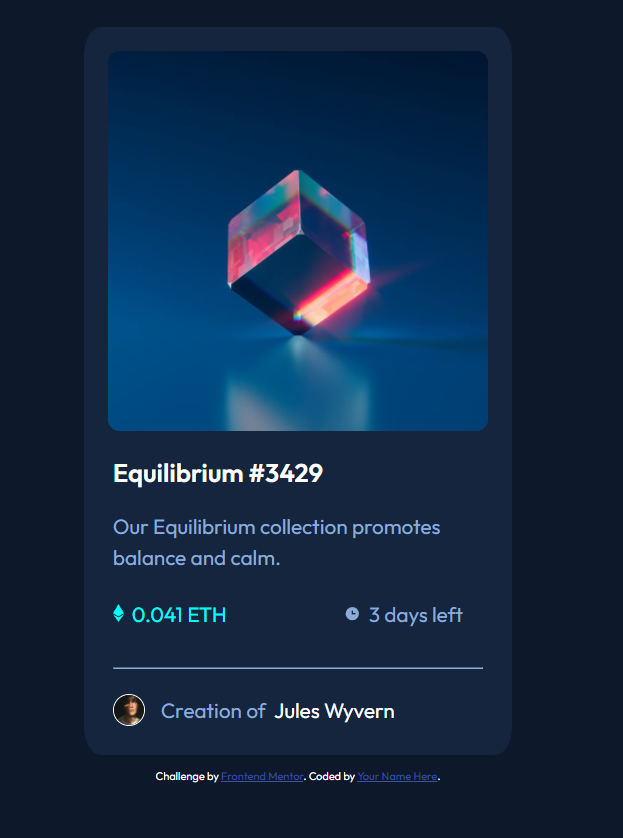
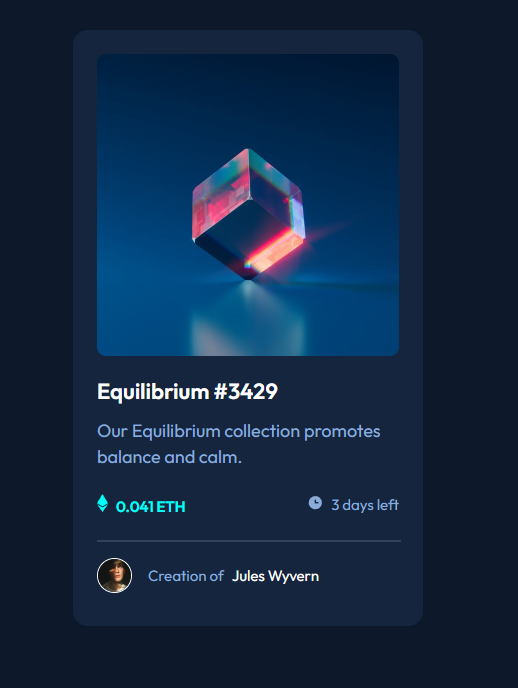
made slight changes after getting access to figma design file

diff --git a/index.html b/index.html
@@ -11,7 +11,10 @@
       sizes="32x32"
       href="./images/favicon-32x32.png"
     />
-    <link rel="stylesheet" href="https://cdnjs.cloudflare.com/ajax/libs/font-awesome/4.7.0/css/font-awesome.min.css">
+    <link
+      rel="stylesheet"
+      href="https://cdnjs.cloudflare.com/ajax/libs/font-awesome/4.7.0/css/font-awesome.min.css"
+    />
     <link rel="preconnect" href="https://fonts.googleapis.com" />
     <link rel="preconnect" href="https://fonts.gstatic.com" crossorigin />
     <link
@@ -24,38 +27,56 @@
   </head>
   <body>
     <main class="main">
-      <div class="cardImg"><img id="nftImg" src="images/image-equilibrium.jpg" alt="" />
-        <div class="overlay">
-          
-          </div>
-        <a href="#" id="icon" >
-          <svg xmlns="http://www.w3.org/2000/svg" xmlns:xlink="http://www.w3.org/1999/xlink" version="1.1" width="60" height="60" fill="#FFFFFF" viewBox="0 0 24 24"><path d="M12,9A3,3 0 0,0 9,12A3,3 0 0,0 12,15A3,3 0 0,0 15,12A3,3 0 0,0 12,9M12,17A5,5 0 0,1 7,12A5,5 0 0,1 12,7A5,5 0 0,1 17,12A5,5 0 0,1 12,17M12,4.5C7,4.5 2.73,7.61 1,12C2.73,16.39 7,19.5 12,19.5C17,19.5 21.27,16.39 23,12C21.27,7.61 17,4.5 12,4.5Z" /></svg></a></div>
-      
-      
+      <div class="cardImg">
+        <img id="nftImg" src="images/image-equilibrium.jpg" alt="" />
+        <div class="overlay"></div>
+        <svg
+          id="icon"
+          xmlns="http://www.w3.org/2000/svg"
+          xmlns:xlink="http://www.w3.org/1999/xlink"
+          version="1.1"
+          width="60"
+          height="60"
+          fill="#FFFFFF"
+          viewBox="0 0 24 24"
+        >
+          <path
+            d="M12,9A3,3 0 0,0 9,12A3,3 0 0,0 12,15A3,3 0 0,0 15,12A3,3 0 0,0 12,9M12,17A5,5 0 0,1 7,12A5,5 0 0,1 12,7A5,5 0 0,1 17,12A5,5 0 0,1 12,17M12,4.5C7,4.5 2.73,7.61 1,12C2.73,16.39 7,19.5 12,19.5C17,19.5 21.27,16.39 23,12C21.27,7.61 17,4.5 12,4.5Z"
+          />
+        </svg>
+      </div>
 
       <div class="cardText">
         <h1>Equilibrium #3429</h1>
 
         <p>Our Equilibrium collection promotes balance and calm.</p>
-        <p class="spans"><span id="price">
-          <svg width="11" height="18" xmlns="http://www.w3.org/2000/svg"><path d="M11 10.216 5.5 18 0 10.216l5.5 3.263 5.5-3.262ZM5.5 0l5.496 9.169L5.5 12.43 0 9.17 5.5 0Z" fill="#00FFF8"/></svg> 0.041 ETH</span
-        >
-        <span id="days-left">
-          <svg width="17" height="17" xmlns="http://www.w3.org/2000/svg"><path d="M8.305 2.007a6.667 6.667 0 1 0 0 13.334 6.667 6.667 0 0 0 0-13.334Zm2.667 7.334H8.305a.667.667 0 0 1-.667-.667V6.007a.667.667 0 0 1 1.334 0v2h2a.667.667 0 0 1 0 1.334Z" fill="#8BACD9"/></svg>3 days left</span
-        ></p>
-        
+        <p class="spans">
+          <span id="price">
+            <svg width="11" height="18" xmlns="http://www.w3.org/2000/svg">
+              <path
+                d="M11 10.216 5.5 18 0 10.216l5.5 3.263 5.5-3.262ZM5.5 0l5.496 9.169L5.5 12.43 0 9.17 5.5 0Z"
+                fill="#00FFF8"
+              />
+            </svg>
+            0.041 ETH</span
+          >
+          <span id="days-left">
+            <svg width="16" height="16" xmlns="http://www.w3.org/2000/svg">
+              <path
+                d="M8.305 2.007a6.667 6.667 0 1 0 0 13.334 6.667 6.667 0 0 0 0-13.334Zm2.667 7.334H8.305a.667.667 0 0 1-.667-.667V6.007a.667.667 0 0 1 1.334 0v2h2a.667.667 0 0 1 0 1.334Z"
+                fill="#8BACD9"
+              /></svg
+            >3 days left</span
+          >
+        </p>
 
         <hr />
 
-        <p id="authorInfo"><img id="avatar" src="images/image-avatar.png" alt=""> Creation of <span> Jules Wyvern</span></p>
+        <p id="authorInfo">
+          <img id="avatar" src="images/image-avatar.png" alt="" /> Creation of
+          <span> Jules Wyvern</span>
+        </p>
       </div>
     </main>
-<footer><div class="attribution">
-  Challenge by
-  <a href="https://www.frontendmentor.io?ref=challenge" target="_blank"
-    >Frontend Mentor</a
-  >. Coded by <a href="#">Your Name Here</a>.
-</div></footer>
-    
   </body>
 </html>

diff --git a/css/style.css b/css/style.css
@@ -1,47 +1,72 @@
 body {
   background-color: hsl(217, 54%, 11%);
   font-family: "Outfit", sans-serif;
-  display: flex;
-  flex-direction: column;
 }
 
 .main {
   background-color: hsl(216, 50%, 16%);
-  border-radius: 4%;
+  border-radius: 15px;
   text-align: left;
+  width: 327px;
+  height: 543px;
 }
 
 .cardImg {
   padding: 1.5rem;
-  padding-bottom: 0;
+  padding-bottom: 8px;
   display: flex;
   justify-content: center;
-  
+  position: relative;
+}
+
+#nftImg, .overlay{
+  width: 278px;
 }
 #nftImg {
   border-radius: 3%;
-  width: 380px;
   background-color: hsl(215, 51%, 70%);
- 
-  
 }
-.cardText > * {
-  margin: 0.8rem;
+
+.overlay {
+  position: absolute;
+  height: 278px;
+  background-color: hsl(178, 100%, 50%);
+  display: flex;
+  align-items: center;
+  justify-content: center;
+  opacity: 0;
 }
+
+.overlay:hover {
+  opacity: 0.4;
+}
+
+#icon {
+  position: absolute;
+  top: 130px;
+  z-index: -1;
+  width: 48px;
+}
+.overlay:hover + #icon {
+  z-index: 2;
+}
+
 .cardText {
-  padding: 1rem;
+  padding: 24px;
   display: flex;
   flex-direction: column;
 }
 .cardText p {
-  font-size: 1.3rem;
+  font-size: 18px;
   max-width: 350px;
-  line-height: 1.5;
+  line-height: 26px;
+  padding-bottom: 16px;
 }
 h1 {
   color: hsl(0, 0%, 100%);
   font-weight: 600;
-  font-size: 1.6rem;
+  font-size: 22px;
+  padding-bottom: 12px;
 }
 
 p {
@@ -51,31 +76,41 @@ p {
 .spans {
   display: flex;
   justify-content: space-between;
-  margin-bottom: 1.5rem;
+}
+#price,
+#days-left {
+  display: flex;
+  align-items: baseline;
+  font-size: 15px;
+  line-height: 19px;
 }
 #price {
   color: hsl(178, 100%, 50%);
-  display: flex;
-  align-items: baseline;
+  font-weight: 600;
 }
 
 #days-left {
   color: hsl(215, 51%, 70%);
   margin-left: auto;
-  display: flex;
-  align-items: baseline;
+  font-weight: 400;
 }
 svg {
   padding-right: 0.5rem;
 }
 
 hr {
-  border-color: hsl(215, 51%, 70%);
+  border: solid 1px hsl(215, 32%, 27%);
+  width: 278px;
+  margin: 0;
 }
 
 #authorInfo {
   display: flex;
   align-items: center;
+  padding-top: 16px;
+  padding-bottom: 24px;
+  font-size: 15px;
+  line-height: 19px;
 }
 
 #authorInfo span {
@@ -83,56 +118,45 @@ hr {
   color: hsl(0, 0%, 100%);
 }
 #avatar {
-  width: 30px;
+  width: 33px;
   border: hsl(0, 0%, 100%) solid 1px;
   border-radius: 50%;
   margin-right: 1rem;
 }
-footer{
-    margin-top: 1rem;
-}
-.attribution {
-  font-size: 11px;
-  text-align: center;
-  color: hsl(0, 0%, 100%);
-}
-.attribution a {
-  color: hsl(228, 45%, 44%);
+
+h1:hover,
+#authorInfo span:hover {
+  color: hsl(178, 100%, 50%);
 }
 
-h1:hover, #authorInfo span:hover{
-  color:hsl(178, 100%, 50%);
-}
-
-.overlay{
-  position: absolute;
-  width:380px;
-  height: 380px;
-  background-color: hsl(178, 100%, 50%);
-  display: flex;
-  align-items: center;
-  justify-content: center;
-  opacity: 0;
-}
-
-.overlay:hover{
-  opacity: 0.4;
-}
-
-#icon{
-  position: absolute;
-  top:35%;
-  z-index:-1;
-}
-.overlay:hover + #icon{
-  z-index: 2;
-}
-
-
-
-
-@media (max-width:513px){
-    body{
-        transform: scale(0.7);
-    }
+@media (min-width: 500px) {
+  .main {
+    width: 350px;
+    height: 596px;
+  }
+  #nftImg,
+  .overlay {
+    width: 302px;
+  }
+  .overlay{
+    height: 302px;
+  }
+  #icon{
+    top: 150px;
+  }
+  .cardImg {
+    padding-bottom: 0;
+  }
+  h1 {
+    padding-bottom: 16px;
+  }
+  #authorInfo {
+    padding-bottom: 32px;
+  }
+  .cardText p {
+    padding-bottom: 24px;
+  }
+  hr {
+    width: 302px;
+  }
 }
